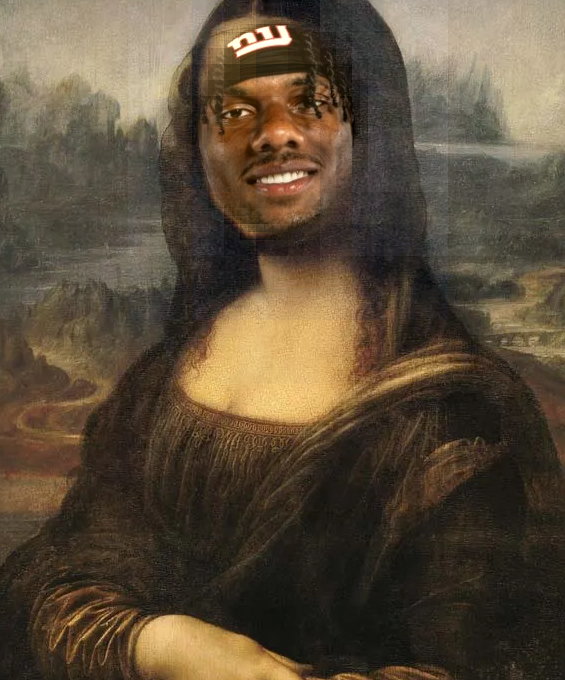
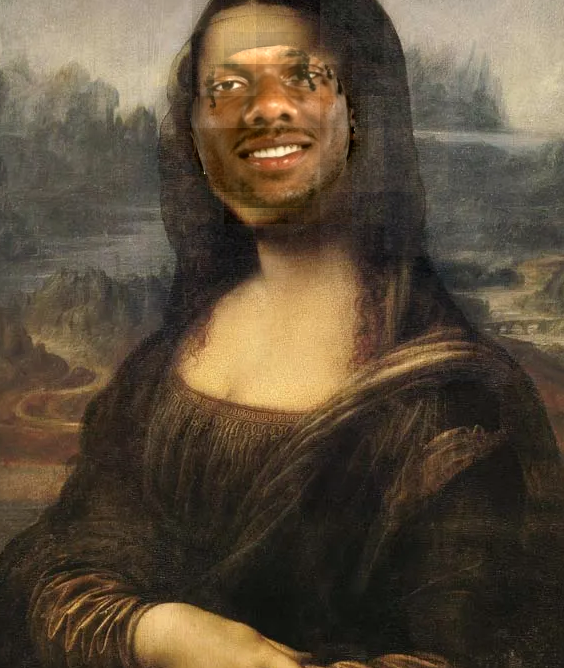
parameter tuning

diff --git a/ImageBlender/ImageBlender/pyramid.py b/ImageBlender/ImageBlender/pyramid.py
@@ -68,10 +68,6 @@ def ComputePyr(input_image, num_layers, gauss_size = 5, gauss_sigma = 2):
 
 
 def reconstruct_from_laplacian(lPyr):
-    """
-    Reconstruct an image from its Laplacian pyramid.
-    Assumes lPyr[-1] is the coarsest Gaussian image.
-    """
     current = lPyr[-1]
     # Go from coarsest-1 back to finest
     for level in reversed(lPyr[:-1]):
@@ -80,23 +76,10 @@ def reconstruct_from_laplacian(lPyr):
     return np.clip(current, 0.0, 1.0)
 
 def laplacian_pyramid_blend(src, tgt, mask, num_layers=5, gauss_size=5, gauss_sigma=2):
-    """
-    Perform Laplacian pyramid blending of two images using a mask.
-
-    Args:
-        src: source image (numpy array, HxW or HxWxC) in [0,1] or [0,255]
-        tgt: target image (same size as src)
-        mask: mask image (same size as src), ideally in [0,1], white=source
-        num_layers: number of pyramid levels
-    Returns:
-        blended: blended image as numpy array in [0,1]
-    """
-    # Ensure float64
     src = src.astype(np.float64)
     tgt = tgt.astype(np.float64)
     mask = mask.astype(np.float64)
 
-    # Normalize ranges if needed
     if src.max() > 1.0:
         src /= 255.0
     if tgt.max() > 1.0:
@@ -104,18 +87,13 @@ def laplacian_pyramid_blend(src, tgt, mask, num_layers=5, gauss_size=5, gauss_si
     if mask.max() > 1.0:
         mask /= 255.0
 
-    # Ensure shapes match
-    #assert src.shape == tgt.shape == mask.shape, "Source, target, and mask must have the same shape."
-
-    # Build pyramids
-    gSrc, lSrc = ComputePyr(src, num_layers, gauss_size, gauss_sigma)
-    gTgt, lTgt = ComputePyr(tgt, num_layers, gauss_size, gauss_sigma)
+    _, lSrc = ComputePyr(src, num_layers, gauss_size, gauss_sigma)
+    _, lTgt = ComputePyr(tgt, num_layers, gauss_size, gauss_sigma)
     gMask, _   = ComputePyr(mask, num_layers, gauss_size, gauss_sigma)
 
     # Blend per level
     blended_pyr = []
     for l_s, l_t, g_m in zip(lSrc, lTgt, gMask):
-        # Make sure mask can broadcast correctly for RGB images
         if l_s.ndim == 3 and g_m.ndim == 2:
             g_m = g_m[..., np.newaxis]
         blended_level = g_m * l_s + (1.0 - g_m) * l_t
@@ -127,27 +105,15 @@ def laplacian_pyramid_blend(src, tgt, mask, num_layers=5, gauss_size=5, gauss_si
 
 
 def embed_source_and_mask_in_background(src, mask, target_shape, top_left=None):
-    """
-    Embed an RGB (or grayscale) src and its single-channel mask into
-    a black background of size target_shape (H,W,3 or H,W).
-    """
-
     H_t, W_t = target_shape[0], target_shape[1]
     H_s, W_s = src.shape[0], src.shape[1]
 
-    # Ensure spatial dims of mask match src initially
-    if mask.shape[:2] != (H_s, W_s):
-        raise ValueError(
-            f"Mask spatial size must match source. Got src {src.shape}, mask {mask.shape}"
-        )
-
-    # --- If source is larger than target, resize BOTH src and mask down to fit ---
+    # If source is larger than target, resize BOTH src and mask down to fit
     if H_s > H_t or W_s > W_t:
         scale = min(H_t / H_s, W_t / W_s)
         new_H = max(1, int(H_s * scale))
         new_W = max(1, int(W_s * scale))
 
-        # Prepare src for resizing
         src_img = src.copy()
         if src_img.max() <= 1.0:
             src_img = (src_img * 255.0)
@@ -158,12 +124,10 @@ def embed_source_and_mask_in_background(src, mask, target_shape, top_left=None):
         else:
             pil_src = Image.fromarray(src_img)  # RGB
 
-        # Prepare mask for resizing
         mask_img = mask.copy()
         if mask_img.max() <= 1.0:
             mask_img = (mask_img * 255.0)
         mask_img = np.clip(mask_img, 0, 255).astype(np.uint8)
-        # ensure 2D for mask
         if mask_img.ndim == 3:
             mask_img = mask_img[..., 0]
         pil_mask = Image.fromarray(mask_img, mode="L")
@@ -179,16 +143,14 @@ def embed_source_and_mask_in_background(src, mask, target_shape, top_left=None):
 
         H_s, W_s = src.shape[0], src.shape[1]
 
-    # --- Create backgrounds ---
+    # Create backgrounds
     if len(target_shape) == 3:
-        # RGB background
         src_bg = np.zeros(target_shape, dtype=src.dtype)
     else:
         src_bg = np.zeros(target_shape, dtype=src.dtype)
 
     mask_bg = np.zeros((H_t, W_t), dtype=mask.dtype)
 
-    # Position (center by default)
     if top_left is None:
         row = (H_t - H_s) // 2
         col = (W_t - W_s) // 2

diff --git a/ImageBlender/ImageBlender/main.py b/ImageBlender/ImageBlender/main.py
@@ -17,7 +17,7 @@ if __name__ == "__main__":
     # START CLOCK TO RECORD SPEED OF PROGRAM
     program_start = time.perf_counter()
 
-    # --- GUI: create a mask if you want to generate a new one ---
+    # GUI
     gui_start = time.perf_counter()
     root = tk.Tk()
     app = ROIAnnotation(root)
@@ -44,18 +44,15 @@ if __name__ == "__main__":
 
         if src.shape[0:2] != mask.shape[0:2]:
             raise ValueError(
-                f"For pair {idx}, source and mask must match spatially. "
-                f"Got src {src.shape}, mask {mask.shape}"
+                "Source and mask must match spatially"
             )
 
         if src.shape[0:2] != tgt.shape[0:2]:
-            print(f"Adjusting and embedding source{idx} and its mask into background to match target size.")
             src, mask = embed_source_and_mask_in_background(src, mask, tgt.shape)
 
         if src.shape != tgt.shape:
             raise ValueError(
-                f"After embedding, source and target must match exactly. "
-                f"Got src {src.shape}, tgt {tgt.shape}"
+                "After embedding, source and target must match exactly"
             )
 
         if mask.shape[0:2] != tgt.shape[0:2]:
@@ -65,7 +62,7 @@ if __name__ == "__main__":
             )
 
 
-        blended = laplacian_pyramid_blend(src, tgt, mask, num_layers=7, gauss_size=7, gauss_sigma=2.5)
+        blended = laplacian_pyramid_blend(src, tgt, mask, num_layers=8, gauss_size=7, gauss_sigma=2.5)
 
         out_path = os.path.join(IMAGES_DIR, f"blend{idx}.png")
         save_image(blended, out_path)

diff --git a/ImageBlender/ImageBlender/helper.py b/ImageBlender/ImageBlender/helper.py
@@ -65,7 +65,6 @@ def conv2(input_image, kernel, pad_mode):
 
 # === HELPER FUNCTIONS ===
 def load_image(image_path: str) -> np.ndarray:
-
     # Load the image using PIL and convert to grayscale
     image = Image.open(image_path).convert('L') #('L' mode = 8-bit grayscale)
 
@@ -83,7 +82,6 @@ def load_color_image(image_path: str) -> np.ndarray:
 
 
 def dft2_from_fft1(image_array: np.ndarray) -> np.ndarray:
-
     # Apply FFT along rows (axis=1)
     fft_rows = np.fft.fft(image_array, axis=1)
 
@@ -94,7 +92,6 @@ def dft2_from_fft1(image_array: np.ndarray) -> np.ndarray:
 
 
 def visualize_spectrum_phase(F: np.ndarray):
-
     # Compute magnitude and phase
     magnitude = np.abs(F)
     phase = np.angle(F)

diff --git a/ImageBlender/ImageBlender/gui.py b/ImageBlender/ImageBlender/gui.py
@@ -141,12 +141,6 @@ class ROIAnnotation:
             print("Mask saved to:", save_path)
 
 
-if __name__ == "__main__":
-    root = tk.Tk()
-    app = ROIAnnotation(root)
-    root.mainloop()
-
-
 
 
 
